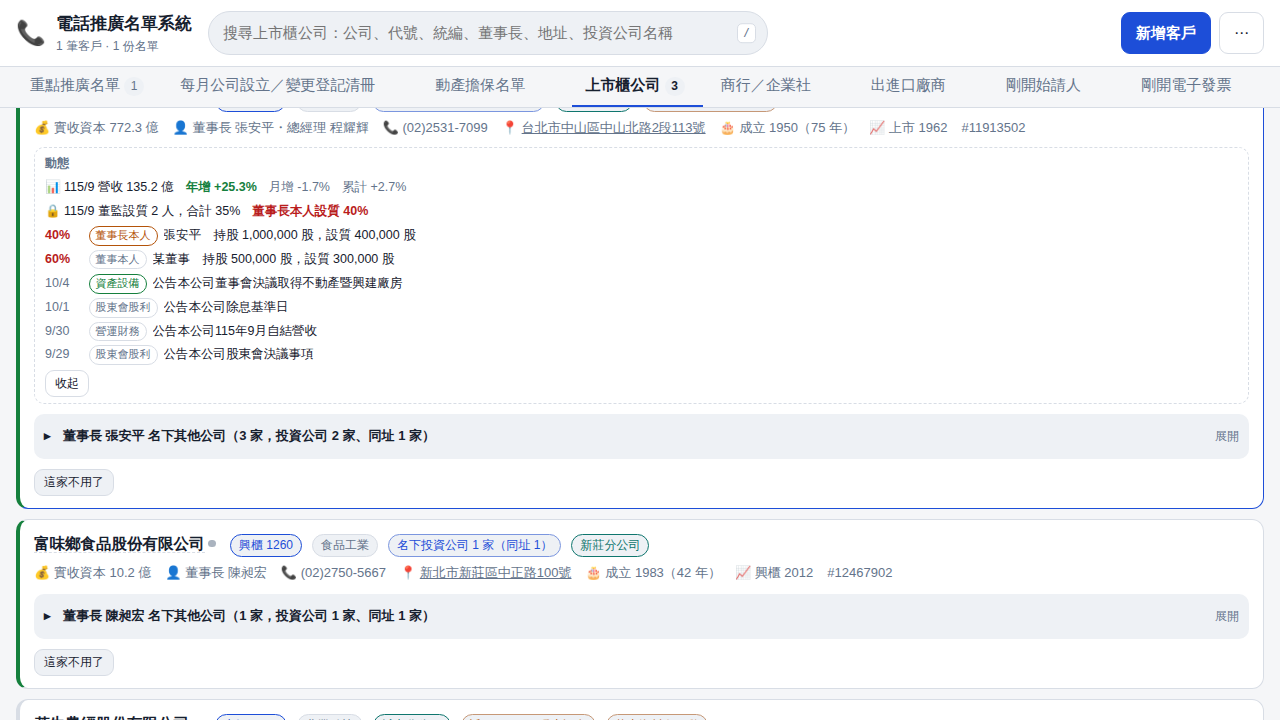
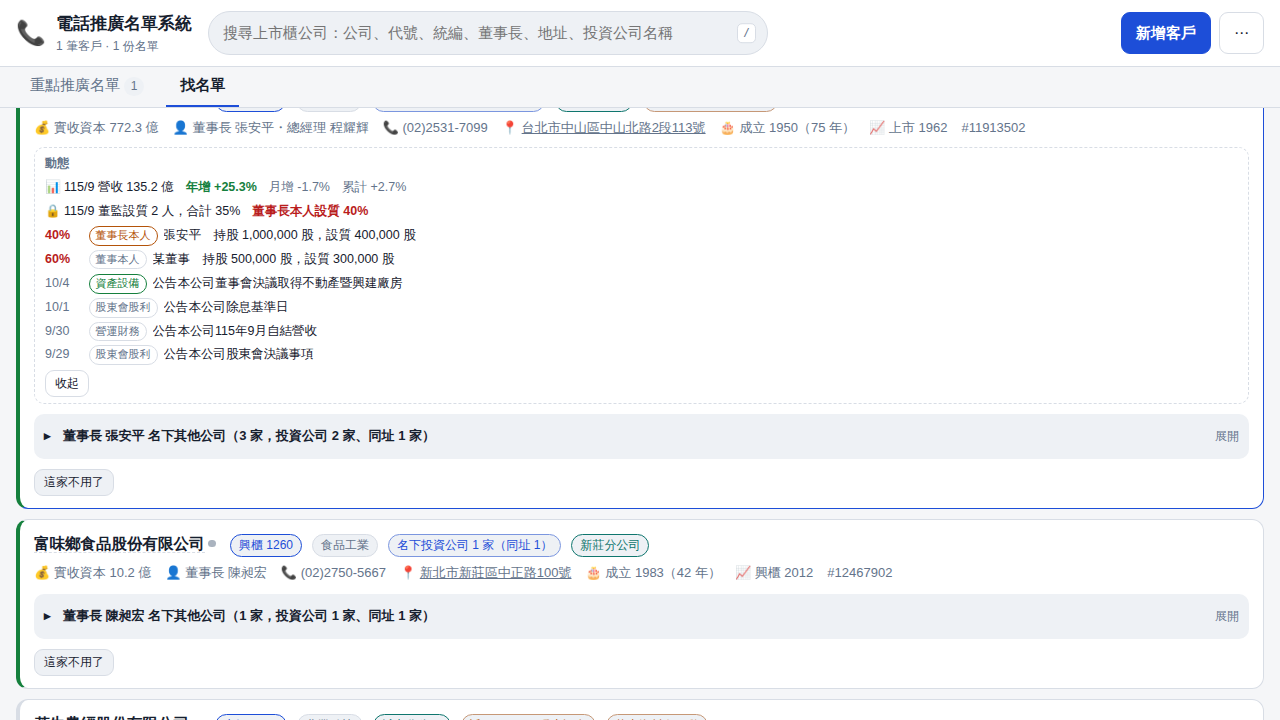
分頁列收成三個：重點推廣名單、找名單（七個來源在第二排、名字縮短）、篩選；統計規則搬進選單；版本 241
Claude-Session: https://claude.ai/code/session_01Dzy844eqapM8HioFc9w195

diff --git a/index.html b/index.html
@@ -14,10 +14,10 @@
 <meta name="mobile-web-app-capable" content="yes">
 <meta name="apple-mobile-web-app-title" content="電推名單">
 <meta name="apple-mobile-web-app-status-bar-style" content="default">
-<link rel="stylesheet" href="assets/css/app.css?v=20261003-240">
+<link rel="stylesheet" href="assets/css/app.css?v=20261003-241">
 <!-- 密碼鎖要在畫面畫出來之前就生效，不然會先閃一下內容 -->
 <style>html[data-locked] body > *:not(.lock-gate) { display: none !important; }</style>
-<script src="assets/js/lock.js?v=20261003-240"></script>
+<script src="assets/js/lock.js?v=20261003-241"></script>
 </head>
 <body data-theme="auto">
 
@@ -40,6 +40,8 @@
     <button id="btnImport" class="btn btn-primary">新增客戶</button>
     <button id="btnMenu" class="btn btn-ghost" aria-haspopup="true" title="更多">⋯</button>
     <div id="menu" class="menu" hidden>
+      <button data-act="stats">統計</button>
+      <button data-act="rules">規則</button>
       <hr>
       <button data-act="export-xlsx">匯出 Excel（含通話紀錄）</button>
       <button data-act="export-json">下載備份 JSON</button>
@@ -68,18 +70,20 @@
   </div>
 </header>
 
+<!-- 分頁列只留三個：每天待的名單、找名單（七個來源收在第二排）、篩選。統計、規則搬到右上選單（使用者：分頁在版面上有點多） -->
 <nav class="tabs" id="tabs">
   <button class="tab is-active" data-tab="all">重點推廣名單 <span class="pill" id="countAll">0</span></button>
-  <button class="tab" data-tab="leads">每月公司設立／變更登記清冊 <span class="pill" id="countLeads"></span></button>
-  <button class="tab" data-tab="chattel">動產擔保名單 <span class="pill" id="countChattel"></span></button>
-  <button class="tab" data-tab="listed">上市櫃公司 <span class="pill" id="countListed"></span></button>
-  <button class="tab" data-tab="biz">商行／企業社 <span class="pill" id="countBiz"></span></button>
-  <button class="tab" data-tab="trade">出進口廠商 <span class="pill" id="countTrade"></span></button>
-  <button class="tab" data-tab="nhi">剛開始請人 <span class="pill" id="countNhi"></span></button>
-  <button class="tab" data-tab="einv">剛開電子發票 <span class="pill" id="countEinv"></span></button>
-  <button class="tab" data-tab="stats">統計</button>
-  <button class="tab" data-tab="rules">規則</button>
+  <button class="tab" data-tab="sources">找名單</button>
   <button id="btnFilters" class="tab tab-filters" aria-expanded="false">篩選 ▾</button>
+</nav>
+<nav class="subtabs" id="subtabs" hidden>
+  <button class="subtab" data-tab="leads">登記清冊 <span class="pill" id="countLeads"></span></button>
+  <button class="subtab" data-tab="chattel">動產擔保 <span class="pill" id="countChattel"></span></button>
+  <button class="subtab" data-tab="listed">上市櫃 <span class="pill" id="countListed"></span></button>
+  <button class="subtab" data-tab="biz">商行／企業社 <span class="pill" id="countBiz"></span></button>
+  <button class="subtab" data-tab="trade">出進口廠商 <span class="pill" id="countTrade"></span></button>
+  <button class="subtab" data-tab="nhi">剛開始請人 <span class="pill" id="countNhi"></span></button>
+  <button class="subtab" data-tab="einv">剛開電子發票 <span class="pill" id="countEinv"></span></button>
 </nav>
 
 <main class="layout">
@@ -304,25 +308,25 @@
 
 <div id="toast" class="toast" hidden></div>
 
-<script src="assets/vendor/pdfjs/pdf.min.js?v=20261003-240"></script>
-<script src="assets/vendor/xlsx/xlsx.min.js?v=20261003-240"></script>
+<script src="assets/vendor/pdfjs/pdf.min.js?v=20261003-241"></script>
+<script src="assets/vendor/xlsx/xlsx.min.js?v=20261003-241"></script>
 <script src="assets/vendor/tesseract/tesseract.min.js"></script>
-<script src="assets/js/pdf-table.js?v=20261003-240"></script>
-<script src="assets/js/normalize.js?v=20261003-240"></script>
-<script src="assets/js/holidays.js?v=20261003-240"></script>
-<script src="assets/js/registry.js?v=20261003-240"></script>
-<script src="assets/js/ocr.js?v=20261003-240"></script>
-<script src="assets/js/rules.js?v=20261003-240"></script>
-<script src="assets/js/store.js?v=20261003-240"></script>
-<script src="assets/js/sync.js?v=20261003-240"></script>
-<script src="assets/js/leads.js?v=20261003-240"></script>
-<script src="assets/js/chattel.js?v=20261003-240"></script>
-<script src="assets/js/listed.js?v=20261003-240"></script>
-<script src="assets/js/biz.js?v=20261003-240"></script>
-<script src="assets/js/trade.js?v=20261003-240"></script>
-<script src="assets/js/nhi.js?v=20261003-240"></script>
-<script src="assets/js/einv.js?v=20261003-240"></script>
-<script src="assets/js/closed.js?v=20261003-240"></script>
-<script src="assets/js/app.js?v=20261003-240"></script>
+<script src="assets/js/pdf-table.js?v=20261003-241"></script>
+<script src="assets/js/normalize.js?v=20261003-241"></script>
+<script src="assets/js/holidays.js?v=20261003-241"></script>
+<script src="assets/js/registry.js?v=20261003-241"></script>
+<script src="assets/js/ocr.js?v=20261003-241"></script>
+<script src="assets/js/rules.js?v=20261003-241"></script>
+<script src="assets/js/store.js?v=20261003-241"></script>
+<script src="assets/js/sync.js?v=20261003-241"></script>
+<script src="assets/js/leads.js?v=20261003-241"></script>
+<script src="assets/js/chattel.js?v=20261003-241"></script>
+<script src="assets/js/listed.js?v=20261003-241"></script>
+<script src="assets/js/biz.js?v=20261003-241"></script>
+<script src="assets/js/trade.js?v=20261003-241"></script>
+<script src="assets/js/nhi.js?v=20261003-241"></script>
+<script src="assets/js/einv.js?v=20261003-241"></script>
+<script src="assets/js/closed.js?v=20261003-241"></script>
+<script src="assets/js/app.js?v=20261003-241"></script>
 </body>
 </html>

diff --git a/tests/e2e/test-nav.js b/tests/e2e/test-nav.js
@@ -1,0 +1,42 @@
+// 分頁列只剩「重點推廣名單｜找名單｜篩選」：七個來源在找名單底下的第二排，統計、規則從右上選單進；?tab= 網址照舊
+const { chromium } = require('playwright');
+const http=require('http'),fs=require('fs'),path=require('path');
+const ROOT=require('path').resolve(__dirname,'../..'),T={'.html':'text/html','.js':'text/javascript','.css':'text/css','.json':'application/json'};
+const srv=http.createServer((rq,rs)=>{const f=path.join(ROOT,rq.url==='/'?'index.html':decodeURIComponent(rq.url.split('?')[0]));
+ fs.readFile(f,(e,b)=>{if(e){rs.writeHead(404);return rs.end();}rs.writeHead(200,{'Content-Type':T[path.extname(f)]||'application/octet-stream'});rs.end(b);});}).listen(9511);
+(async()=>{
+ let bad=0; const chk=(ok,m)=>{ if(!ok)bad++; console.log(`${ok?'PASS':'FAIL'} ${m}`); };
+ const br=await chromium.launch({executablePath:process.env.PW_CHROMIUM||undefined});
+ const ctx=await br.newContext();
+ await ctx.route('**/leads/**',r=>r.fulfill({status:404,body:''}));   // 這支只看導覽，清冊一律沒有
+ const pg=await ctx.newPage({viewport:{width:1300,height:1100}}); const errs=[]; pg.on('pageerror',e=>errs.push(e.message)); pg.on('dialog',d=>d.accept());
+ await pg.goto('http://localhost:9511/index.html'); await pg.waitForSelector('#dropzone'); await pg.click('#importer .drawer-close');
+ await pg.evaluate(()=>{ localStorage.setItem('registry-auto','0'); localStorage.setItem('daily-feed-auto','0'); });
+ const tabs=await pg.$$eval('#tabs .tab',a=>a.map(x=>x.textContent.replace(/\s+/g,' ').trim()));
+ chk(tabs.length===3 && tabs[0].startsWith('重點推廣名單') && tabs[1]==='找名單' && /篩選/.test(tabs[2]), `分頁列三個：${tabs.join(' | ')}`);
+ chk(await pg.locator('#subtabs').isHidden(), '在重點推廣名單時第二排收著');
+ // 按找名單：第二排出現、預設登記清冊
+ await pg.click('.tab[data-tab="sources"]'); await pg.waitForTimeout(400);
+ chk(await pg.locator('#subtabs').isVisible() && (await pg.$$eval('#subtabs .subtab',a=>a.length))===7, '第二排七個來源');
+ chk(await pg.locator('.tab[data-tab="sources"]').evaluate(e=>e.classList.contains('is-active')) && await pg.locator('.subtab[data-tab="leads"]').evaluate(e=>e.classList.contains('is-active')) && await pg.locator('#paneLeads').isVisible(), '找名單亮著、預設登記清冊');
+ const subs=await pg.$$eval('#subtabs .subtab',a=>a.map(x=>x.textContent.replace(/\s+/g,' ').trim()));
+ chk(subs[0].startsWith('登記清冊') && subs[1].startsWith('動產擔保') && subs[2].startsWith('上市櫃') && subs[6].startsWith('剛開電子發票'), `名字縮短：${subs.join(' | ')}`);
+ // 切到出進口廠商：pane 換、搜尋欄提示換、記住
+ await pg.click('.subtab[data-tab="trade"]'); await pg.waitForTimeout(400);
+ chk(await pg.locator('#paneTrade').isVisible() && await pg.locator('#paneLeads').isHidden() && /出進口廠商/.test(await pg.getAttribute('#search','placeholder')), '切到出進口廠商');
+ await pg.click('.tab[data-tab="all"]'); await pg.waitForTimeout(300);
+ chk(await pg.locator('#subtabs').isHidden() && await pg.locator('#paneList').isVisible(), '回重點推廣名單：第二排收起來');
+ await pg.click('.tab[data-tab="sources"]'); await pg.waitForTimeout(300);
+ chk(await pg.locator('#paneTrade').isVisible(), '再按找名單回到上次看的出進口廠商');
+ // 統計、規則從右上選單
+ await pg.click('#btnMenu'); await pg.click('#menu [data-act="stats"]'); await pg.waitForTimeout(400);
+ chk(await pg.locator('#paneStats').isVisible() && await pg.locator('#subtabs').isHidden() && (await pg.$$eval('#tabs .tab.is-active',a=>a.length))===0, '選單進統計：分頁列不亮、第二排收起來');
+ await pg.click('#btnMenu'); await pg.click('#menu [data-act="rules"]'); await pg.waitForTimeout(400);
+ chk(await pg.locator('#paneRules').isVisible(), '選單進規則');
+ // ?tab= 網址照舊
+ await pg.goto('http://localhost:9511/index.html?tab=nhi'); await pg.waitForSelector('#btnImport'); await pg.waitForTimeout(600);
+ chk(await pg.locator('#paneNhi').isVisible() && await pg.locator('.subtab[data-tab="nhi"]').evaluate(e=>e.classList.contains('is-active')), '?tab=nhi 直接開到剛開始請人');
+ chk(errs.length===0, `沒有 JS 錯誤：${errs.join(' | ')}`);
+ console.log(bad?`\n${bad} 項失敗`:'\n全部通過');
+ await br.close(); srv.close(); process.exit(bad?1:0);
+})();

diff --git a/assets/js/app.js b/assets/js/app.js
@@ -9,7 +9,7 @@
    * 靜態主機會把 js/css 快取起來，沒有版本號的話使用者更新後還是拿到舊檔案。
    * index.html 的每個 assets 網址都帶 ?v=，改版時一起換掉這個字串即可。
    */
-  const APP_VERSION = '20261003-240';
+  const APP_VERSION = '20261003-241';
   const TAX_LABEL = { yes: '有統編', no: '無統編' };
   const PHONE_LABEL = { yes: '有電話', no: '無電話' };
   // 變更登記：商工登記查核時發現的異動。一家公司可以同時有好幾種（增資＋負責人異動）
@@ -7354,6 +7354,7 @@ export default {
       if (!btn || btn.id === 'btnFilters' || btn.classList.contains('tab-link') || btn.classList.contains('nav-link')) return;
       switchTab(btn.dataset.tab);
     };
+    $('#subtabs').onclick = (e) => { const btn = e.target.closest('.subtab'); if (btn) switchTab(btn.dataset.tab); };
 
     $('#btnImport').onclick = () => { $('#importer').hidden = false; };
     $('#btnSync').onclick = () => runSync({ interactive: true });
@@ -7463,6 +7464,7 @@ export default {
       if (act === 'backups') { await openBackups(); return; }
       if (act === 'check-names') { await reviewCompanyNames(); return; }
       if (act === 'day-load') { openDayLoad(); return; }
+      if (act === 'stats' || act === 'rules') { switchTab(act); return; }
       if (act === 'prune-unscheduled') { pruneUnscheduled(); return; }
       if (act === 'feed-more') { await dailyFeed({ more: true }); render(); return; }
       if (act === 'spread-undo') { await undoSpread(); return; }
@@ -7579,16 +7581,27 @@ export default {
     });
   }
 
-  /** 切分頁：分頁列、選單、網址（?tab=leads）都從這裡走，狀態才會一致。 */
+  /*
+   * 切分頁：分頁列、選單、網址（?tab=leads）都從這裡走，狀態才會一致。
+   * 分頁列只有「重點推廣名單」「找名單」（使用者：分頁在版面上有點多）：七個名單來源是「找名單」底下的第二排（#subtabs），
+   * state.tab 還是那七個 key，各分頁、搜尋欄、?tab= 都不用改；按「找名單」就回到上次看的那個來源。統計、規則從右上選單進，分頁列不亮。
+   */
+  const SOURCE_TABS = ['leads', 'chattel', 'listed', 'biz', 'trade', 'nhi', 'einv'];
   function switchTab(tab) {
-    const btn = $(`#tabs .tab[data-tab="${tab}"]`);
-    if (!btn) return;
+    if (tab === 'sources') { let last = ''; try { last = localStorage.getItem('sources-last') || ''; } catch (e) { last = ''; } tab = SOURCE_TABS.includes(last) ? last : 'leads'; }
+    if (!(tab === 'all' || tab === 'stats' || tab === 'rules' || SOURCE_TABS.includes(tab))) return;
     state.tab = tab;
     state.limit = PAGE_SIZE;
-    [...$('#tabs').children].forEach((b) => b.classList.toggle('is-active', b === btn));
+    const isSource = SOURCE_TABS.includes(tab);
+    const top = tab === 'all' ? 'all' : isSource ? 'sources' : '';
+    [...$('#tabs').children].forEach((b) => b.classList.toggle('is-active', !!top && b.dataset.tab === top));
+    $('#subtabs').hidden = !isSource;
+    [...$('#subtabs').children].forEach((b) => b.classList.toggle('is-active', b.dataset.tab === tab));
+    if (isSource) { try { localStorage.setItem('sources-last', tab); } catch (e) { /* 無痕 */ } }
     render();
     syncSearchBox();
   }
+  window.switchTab = switchTab;   // 測試用：直接切到某個來源
 
   async function init() {
     // 深淺色切換拿掉了（使用者說用不到），一律跟著系統；以前手動選過的清掉，不然會永遠卡在那一色

diff --git a/tests/e2e/test-deleted-hide.js b/tests/e2e/test-deleted-hide.js
@@ -39,7 +39,7 @@ const mk=(id,company,taxId)=>({id,source:'A.csv',company,aliases:[],taxId,grade:
  chk((await pg.evaluate(async()=>(await window.Store.allRecords()).length))===0, '名單上刪掉了');
  chk(await pg.evaluate(()=>window.deletedCompany('晨光貿易有限公司','70000001')) && !(await pg.evaluate(()=>window.deletedCompany('遠帆國際開發有限公司','70000002'))), '刪掉的公司有記到（統編／名稱）');
  // 出進口分頁：晨光藏起來，遠帆照列
- await pg.click('.tab[data-tab="trade"]'); await pg.waitForSelector('#trade-cards .card'); await pg.waitForTimeout(300);
+ await pg.evaluate(()=>window.switchTab('trade')); await pg.waitForSelector('#trade-cards .card'); await pg.waitForTimeout(300);
  await pg.click('#trade-reset'); await pg.fill('#trade-capMin',''); await pg.fill('#trade-capMax',''); await pg.locator('#trade-fPhone .chip:has-text("有電話")').click(); await pg.locator('#trade-fBranch .chip:has-text("新莊分公司")').click(); await pg.waitForTimeout(300);
  let names=await pg.$$eval('#trade-cards .card .card-name',a=>a.map(x=>x.textContent.replace(/\s+/g,' ').trim()));
  chk(names.length===1 && /遠帆/.test(names[0]), `出進口分頁只剩遠帆：${names.join('|')}`);
@@ -47,7 +47,7 @@ const mk=(id,company,taxId)=>({id,source:'A.csv',company,aliases:[],taxId,grade:
  chk(/顯示藏起來的 1 家（含名單刪過的 1 家）/.test(hb), `藏起來的按鈕：${hb}`);
  chk(!(await pg.evaluate(async()=>(await window.Trade.dailyCandidates()).some(r=>r.name==='晨光貿易有限公司'))), '每日挑選也不挑刪過的');
  // 剛開始請人分頁一樣
- await pg.click('.tab[data-tab="nhi"]'); await pg.waitForSelector('#nhi-cards .card'); await pg.waitForTimeout(300);
+ await pg.evaluate(()=>window.switchTab('nhi')); await pg.waitForSelector('#nhi-cards .card'); await pg.waitForTimeout(300);
  await pg.click('#nhi-reset'); await pg.fill('#nhi-capMin',''); await pg.fill('#nhi-capMax',''); await pg.locator('#nhi-fOrg .chip:has-text("公司")').click(); await pg.locator('#nhi-fBranch .chip:has-text("新莊分公司")').click(); await pg.waitForTimeout(300);
  names=await pg.$$eval('#nhi-cards .card .card-name',a=>a.map(x=>x.textContent.replace(/\s+/g,' ').trim()));
  chk(names.length===1 && /宇駿/.test(names[0]), `剛開始請人只剩宇駿：${names.join('|')}`);
@@ -60,7 +60,7 @@ const mk=(id,company,taxId)=>({id,source:'A.csv',company,aliases:[],taxId,grade:
  await pg.click('#nhi-hidden').catch(()=>{}); await pg.waitForTimeout(300);
  names=await pg.$$eval('#nhi-cards .card .card-name',a=>a.map(x=>x.textContent.replace(/\s+/g,' ').trim()));
  chk(names.length===2 && (await pg.locator('#nhi-cards .card:has-text("晨光") .nhi-add-one').count())===1, `放回來後正常列出、可以再加入：${names.join('|')}`);
- await pg.click('.tab[data-tab="trade"]'); await pg.waitForTimeout(300);
+ await pg.evaluate(()=>window.switchTab('trade')); await pg.waitForTimeout(300);
  names=await pg.$$eval('#trade-cards .card .card-name',a=>a.map(x=>x.textContent.replace(/\s+/g,' ').trim()));
  chk(names.length===2, `出進口分頁也回來了：${names.join('|')}`);
  chk(errs.length===0, `沒有 JS 錯誤：${errs.join(' | ')}`);

diff --git a/tests/e2e/test-chattel.js b/tests/e2e/test-chattel.js
@@ -44,8 +44,8 @@ const SEED=[mk('1','昱昌汽車貨運股份有限公司','53217846',{outcome:'n
  await pg.reload(); await pg.waitForSelector('#btnImport'); await pg.waitForTimeout(600);
 
  // 分頁在，切過去會抓清冊
- chk(await pg.locator('.tab[data-tab="chattel"]').count()===1, '分頁列上有「動產擔保名單」');
- await pg.click('.tab[data-tab="chattel"]'); await pg.waitForSelector('#chattel-cards .card'); await pg.waitForTimeout(400);
+ chk(await pg.locator('.subtab[data-tab=\"chattel\"]').count()===1, '找名單底下有「動產擔保名單」');
+ await pg.evaluate(()=>window.switchTab('chattel')); await pg.waitForSelector('#chattel-cards .card'); await pg.waitForTimeout(400);
  const sub=await pg.textContent('#chattel-sub');
  chk(/資料截到 2026\/07/.test(sub) && /2026\/09\/26/.test(sub), `副標寫資料截到哪、何時抓的：${sub}`);
  chk(await pg.locator('#filters').isHidden(), '左側客戶篩選收起來，整個寬度給清冊');
@@ -112,7 +112,7 @@ const SEED=[mk('1','昱昌汽車貨運股份有限公司','53217846',{outcome:'n
  await pg.locator('#chattel-cards .card:has-text("泓宇")').locator('button.chattel-hide').click(); await pg.waitForTimeout(250);
  n=await names(); chk(!n.includes('泓宇塑膠射出有限公司'), `藏起來了：${n.join('|')}`);
  chk((await pg.textContent('#chattel-hidden')).includes('顯示藏起來的 1 家'), `有「顯示藏起來的」按鈕：${await pg.textContent('#chattel-hidden')}`);
- await pg.reload(); await pg.waitForSelector('#btnImport'); await pg.click('.tab[data-tab="chattel"]'); await pg.waitForSelector('#chattel-cards .card'); await pg.waitForTimeout(300);
+ await pg.reload(); await pg.waitForSelector('#btnImport'); await pg.evaluate(()=>window.switchTab('chattel')); await pg.waitForSelector('#chattel-cards .card'); await pg.waitForTimeout(300);
  n=await names(); chk(!n.includes('泓宇塑膠射出有限公司'), `重新整理之後還是藏著：${n.join('|')}`);
  await pg.click('#chattel-hidden'); await pg.waitForTimeout(250); n=await names();
  chk(n.includes('泓宇塑膠射出有限公司'), `按一下就看得到藏起來的：${n.join('|')}`);
@@ -132,7 +132,7 @@ const SEED=[mk('1','昱昌汽車貨運股份有限公司','53217846',{outcome:'n
  chk(ht && /新莊區/.test(ht.address), `標的物所在地當地址：${ht&&ht.address}`);
  chk(ht && ht.founded==='2012', `成立年一起匯進去：${ht&&ht.founded}`);
  await pg.click('#importer .drawer-close').catch(()=>{}); await pg.waitForTimeout(300);
- await pg.click('.tab[data-tab="chattel"]'); await pg.waitForTimeout(400);
+ await pg.evaluate(()=>window.switchTab('chattel')); await pg.waitForTimeout(400);
  const mineNow=await pg.locator('#chattel-cards .card.is-mine').count();
  chk(mineNow===4, `匯進去之後卡片變成已在名單：${mineNow}`);
  chk(/（/.test(await pg.textContent('#chattel-add'))===false, `全部都在名單了，按鈕不再寫家數：${await pg.textContent('#chattel-add')}`);

diff --git a/tests/e2e/test-biz.js b/tests/e2e/test-biz.js
@@ -31,8 +31,8 @@ const mk=(id,company,taxId)=>({id,source:'A.csv',company,aliases:[],taxId,grade:
  await pg.goto('http://localhost:9488/index.html'); await pg.waitForSelector('#dropzone'); await pg.click('#importer .drawer-close');
  await pg.evaluate(async(r)=>{ await window.Store.saveRecords(r); localStorage.setItem('registry-auto','0'); localStorage.setItem('daily-feed-auto','0'); },[mk('1','樹德醫療器材行','91214059')]);
  await pg.reload(); await pg.waitForSelector('#btnImport'); await pg.waitForTimeout(500);
- chk(await pg.locator('.tab[data-tab="biz"]').count()===1, '分頁列上有「商行／企業社」');
- await pg.click('.tab[data-tab="biz"]'); await pg.waitForSelector('#biz-cards .card'); await pg.waitForTimeout(400);
+ chk(await pg.locator('.subtab[data-tab=\"biz\"]').count()===1, '找名單底下有「商行／企業社」');
+ await pg.evaluate(()=>window.switchTab('biz')); await pg.waitForSelector('#biz-cards .card'); await pg.waitForTimeout(400);
  const sub=await pg.textContent('#biz-sub');
  chk(/新北市的商行、企業社 3 家（獨資 2、合夥 1）/.test(sub) && /50 萬 以上/.test(sub) && /查到負責人的 2 家/.test(sub), `副標：${sub}`);
  const names=async()=>pg.$$eval('#biz-cards .card .card-name',a=>a.map(x=>x.textContent.trim()));
@@ -72,7 +72,7 @@ const mk=(id,company,taxId)=>({id,source:'A.csv',company,aliases:[],taxId,grade:
  chk(recs.length===1 && recs[0].company==='協玖裝潢企業社' && recs[0].taxId==='91712817' && recs[0].capital==='1,000' && recs[0].founded==='2022' && recs[0].industry==='室內裝潢工程', `加進去的資料：${JSON.stringify(recs[0])}`);
  chk(recs[0] && /商行／企業社（稅籍登記）：獨資/.test(recs[0].notes) && /只有稅籍登記/.test(recs[0].notes) && recs[0].nextDate==='2026-10-06' && recs[0].addedDate===TODAY, `備註、排明天、名單新增日期：${recs[0]&&recs[0].notes} ${recs[0]&&recs[0].nextDate}`);
  await pg.click('#importer .drawer-close').catch(()=>{}); await pg.waitForTimeout(300);
- await pg.click('.tab[data-tab="all"]'); await pg.waitForTimeout(200); await pg.click('.tab[data-tab="biz"]'); await pg.waitForTimeout(400);
+ await pg.click('.tab[data-tab="all"]'); await pg.waitForTimeout(200); await pg.evaluate(()=>window.switchTab('biz')); await pg.waitForTimeout(400);
  chk(/已在名單/.test(await pg.locator('#biz-cards .card:has-text("協玖")').locator('.card-top').textContent()), '切回來變成已在名單');
  chk(/把篩出來的加入客戶名單（1 家）/.test(await pg.textContent('#biz-add')), `整批按鈕算還不在名單的：${await pg.textContent('#biz-add')}`);
  chk(errs.length===0, `沒有 JS 錯誤：${errs.join(' | ')}`);

diff --git a/tests/e2e/test-listed.js b/tests/e2e/test-listed.js
@@ -51,8 +51,8 @@ const SEED=[mk('1','安達投資有限公司','12345679')];
  await pg.goto('http://localhost:9486/index.html'); await pg.waitForSelector('#dropzone'); await pg.click('#importer .drawer-close');
  await pg.evaluate(async(r)=>{ await window.Store.saveRecords(r); localStorage.setItem('registry-auto','0'); localStorage.setItem('daily-feed-auto','0'); },SEED);
  await pg.reload(); await pg.waitForSelector('#btnImport'); await pg.waitForTimeout(500);
- chk(await pg.locator('.tab[data-tab="listed"]').count()===1, '分頁列上有「上市櫃公司」');
- await pg.click('.tab[data-tab="listed"]'); await pg.waitForSelector('#listed-cards .card'); await pg.waitForTimeout(400);
+ chk(await pg.locator('.subtab[data-tab=\"listed\"]').count()===1, '找名單底下有「上市櫃公司」');
+ await pg.evaluate(()=>window.switchTab('listed')); await pg.waitForSelector('#listed-cards .card'); await pg.waitForTimeout(400);
  chk((await pg.$$eval('#listed-cards .card .card-name',a=>a.map(x=>x.textContent.trim()))).join('|')==='富味鄉食品股份有限公司|茂生農經股份有限公司' && /符合 2 家/.test(await pg.textContent('#listed-count')), '預設剔除實收資本額 50 億以上（台泥 772 億藏起來）');
  await pg.uncheck('#listed-hideBig'); await pg.waitForTimeout(300);
  const sub=await pg.textContent('#listed-sub');
@@ -111,7 +111,7 @@ const SEED=[mk('1','安達投資有限公司','12345679')];
  chk(recs[0] && /張安平 是上市 臺灣水泥股份有限公司（1101）董事長/.test(recs[0].notes) && /與上市公司同址/.test(recs[0].notes), `備註寫清楚：${recs[0]&&recs[0].notes}`);
  chk(recs[0] && recs[0].nextDate==='2026-10-06', `排在明天：${recs[0]&&recs[0].nextDate}`);
  await pg.click('#importer .drawer-close').catch(()=>{}); await pg.waitForTimeout(300);
- await pg.click('.tab[data-tab="all"]'); await pg.waitForTimeout(200); await pg.click('.tab[data-tab="listed"]'); await pg.waitForTimeout(400);
+ await pg.click('.tab[data-tab="all"]'); await pg.waitForTimeout(200); await pg.evaluate(()=>window.switchTab('listed')); await pg.waitForTimeout(400);
  chk((await pg.locator('#listed-cards .card').first().locator('.owner-row').count())===2, '切回來仍是展開的');
  const rows2=await pg.locator('#listed-cards .card').first().locator('.owner-row').allTextContents();
  chk(/已在名單/.test(rows2[0]) && /打開/.test(rows2[0]), `切回來變成已在名單：${rows2[0].replace(/\s+/g,' ')}`);

diff --git a/tests/e2e/test-closed.js b/tests/e2e/test-closed.js
@@ -43,7 +43,7 @@ const mk=(id,company,taxId)=>({id,source:'A.csv',company,aliases:[],taxId,grade:
  chk(/已停業・稅籍停業 2026\/05\/23/.test(top), `名單卡片標已停業：${top}`);
  chk(!/已停業/.test(await pg.locator('#cards .card:has-text("還在營業")').textContent()), '沒停業的不標');
  // 出進口分頁：遠帆藏起來，晨光照列；藏起來的按鈕寫「已停業 1 家」；打開看得到原因、沒有放回來
- await pg.click('.tab[data-tab="trade"]'); await pg.waitForSelector('#trade-cards .card'); await pg.waitForTimeout(300);
+ await pg.evaluate(()=>window.switchTab('trade')); await pg.waitForSelector('#trade-cards .card'); await pg.waitForTimeout(300);
  await pg.click('#trade-reset'); await pg.fill('#trade-capMin',''); await pg.fill('#trade-capMax',''); await pg.locator('#trade-fPhone .chip:has-text("有電話")').click(); await pg.locator('#trade-fBranch .chip:has-text("新莊分公司")').click(); await pg.waitForTimeout(300);
  let names=await pg.$$eval('#trade-cards .card .card-name',a=>a.map(x=>x.textContent.replace(/\s+/g,' ').trim()));
  chk(names.length===1 && /晨光/.test(names[0]), `出進口分頁只剩晨光：${names.join('|')}`);
@@ -55,7 +55,7 @@ const mk=(id,company,taxId)=>({id,source:'A.csv',company,aliases:[],taxId,grade:
  chk((await card.count())===1 && /已停業（稅籍停業 2026\/05\/23），自動藏起來/.test(await card.textContent()) && (await card.locator('button:has-text("放回來")').count())===0, `打開藏起來的：寫原因、沒有放回來：${(await card.textContent()).replace(/\s+/g,' ').slice(0,160)}`);
  await pg.click('#trade-hidden'); await pg.waitForTimeout(300);
  // 剛開始請人分頁：健保註銷的宇駿也藏
- await pg.click('.tab[data-tab="nhi"]'); await pg.waitForSelector('#nhi-cards .card'); await pg.waitForTimeout(300);
+ await pg.evaluate(()=>window.switchTab('nhi')); await pg.waitForSelector('#nhi-cards .card'); await pg.waitForTimeout(300);
  await pg.click('#nhi-reset'); await pg.fill('#nhi-capMin',''); await pg.fill('#nhi-capMax',''); await pg.locator('#nhi-fOrg .chip:has-text("公司")').click(); await pg.locator('#nhi-fBranch .chip:has-text("新莊分公司")').click(); await pg.waitForTimeout(300);
  names=await pg.$$eval('#nhi-cards .card .card-name',a=>a.map(x=>x.textContent.replace(/\s+/g,' ').trim()));
  chk(names.length===1 && /晨光/.test(names[0]), `剛開始請人只剩晨光：${names.join('|')}`);

diff --git a/tests/e2e/test-einv.js b/tests/e2e/test-einv.js
@@ -30,8 +30,8 @@ const mk=(id,company,taxId)=>({id,source:'A.csv',company,aliases:[],taxId,grade:
  await pg.goto('http://localhost:9509/index.html'); await pg.waitForSelector('#dropzone'); await pg.click('#importer .drawer-close');
  await pg.evaluate(async(r)=>{ await window.Store.saveRecords(r); localStorage.setItem('registry-auto','0'); localStorage.setItem('daily-feed-auto','0'); localStorage.setItem('leads-hunt','0'); },[mk('1','老客戶股份有限公司','11111111')]);
  await pg.reload(); await pg.waitForSelector('#btnImport'); await pg.waitForTimeout(500);
- chk((await pg.$$eval('#tabs .tab',a=>a.map(x=>x.textContent.replace(/\s+/g,' ').trim()))).some(t=>t.startsWith('剛開電子發票')), '有「剛開電子發票」分頁');
- await pg.click('.tab[data-tab="einv"]'); await pg.waitForSelector('#einv-cards .card'); await pg.waitForTimeout(300);
+ chk((await pg.$$eval('#subtabs .subtab',a=>a.map(x=>x.textContent.replace(/\s+/g,' ').trim()))).some(t=>t.startsWith('剛開電子發票')), '找名單底下有「剛開電子發票」');
+ await pg.evaluate(()=>window.switchTab('einv')); await pg.waitForSelector('#einv-cards .card'); await pg.waitForTimeout(300);
  const sub=(await pg.textContent('#einv-sub')).replace(/\s+/g,' ');
  chk(/新北市剛導入電子發票 1 家（這個月新出現 1）、成立 3 年內已導入的 3 家（對到電話 2）/.test(sub) && /清單 2026\/11，起算 2026\/10/.test(sub), `標題：${sub}`);
  // 預設篩選：資本額 500～6,000 萬、公司、我的分公司 → 名祿（新莊、1,200 萬）；老客戶 5,000 萬也在新莊但已在名單（還是列，標已在名單）
@@ -69,7 +69,7 @@ const mk=(id,company,taxId)=>({id,source:'A.csv',company,aliases:[],taxId,grade:
  await pg.evaluate(()=>document.querySelector('#drawer .drawer-close').click()); await pg.waitForTimeout(300);
  chk((await pg.locator('#einv-cards .card:has-text("名祿") .badge-mine').count())===1, '加完卡片標已在名單');
  // 統計的來源漏斗認得這個來源
- await pg.click('.tab[data-tab="stats"]'); await pg.waitForTimeout(400);
+ await pg.evaluate(()=>window.switchTab('stats')); await pg.waitForTimeout(400);
  chk(/剛開電子發票/.test(await pg.textContent('#paneStats .funnel')), '來源漏斗列「剛開電子發票」');
  chk(errs.length===0, `沒有 JS 錯誤：${errs.join(' | ')}`);
  console.log(bad?`\n${bad} 項失敗`:'\n全部通過');

diff --git a/tests/e2e/test-search-tabs.js b/tests/e2e/test-search-tabs.js
@@ -55,7 +55,7 @@ const SEED=[mk('1','安達投資有限公司','12345679')];
  chk(/搜尋公司、統編、負責人/.test(await box.getAttribute('placeholder')), '重點推廣名單：原本的提示');
  await pg.fill('#search','安達'); await pg.waitForTimeout(400);
  chk(await pg.evaluate(()=>document.querySelectorAll('#list .card, #cards .card').length)>=0, '主名單搜尋照舊');
- await pg.click('.tab[data-tab="listed"]'); await pg.waitForSelector('#listed-cards .card'); await pg.waitForTimeout(400);
+ await pg.evaluate(()=>window.switchTab('listed')); await pg.waitForSelector('#listed-cards .card'); await pg.waitForTimeout(400);
  await pg.uncheck('#listed-hideBig'); await pg.waitForTimeout(300);
  chk(/搜尋上市櫃公司/.test(await box.getAttribute('placeholder')), `切到上市櫃：提示換了 ${await box.getAttribute('placeholder')}`);
  chk((await box.inputValue())==='', '切到上市櫃：搜尋欄清空（那一頁還沒搜）');
@@ -67,11 +67,11 @@ const SEED=[mk('1','安達投資有限公司','12345679')];
  chk((await box.inputValue())==='台泥', '在那一頁的關鍵字欄打字，頂端跟著');
  await pg.click('#listed-reset'); await pg.waitForTimeout(300);
  chk((await box.inputValue())==='' && (await names()).length===2, '按清除篩選，頂端也清了、全部回來（50 億以上又藏起來，剩 2 家）');
- await pg.click('.tab[data-tab="stats"]'); await pg.waitForTimeout(300);
+ await pg.evaluate(()=>window.switchTab('stats')); await pg.waitForTimeout(300);
  chk(await box.isDisabled() && /沒有搜尋/.test(await box.getAttribute('placeholder')), '統計分頁：搜尋欄停用');
  await pg.click('.tab[data-tab="all"]'); await pg.waitForTimeout(300);
  chk(!(await box.isDisabled()) && (await box.inputValue())==='安達' && /搜尋公司、統編、負責人/.test(await box.getAttribute('placeholder')), `切回重點推廣名單：原本的字還在 ${await box.inputValue()}`);
- await pg.click('.tab[data-tab="listed"]'); await pg.waitForTimeout(300);
+ await pg.evaluate(()=>window.switchTab('listed')); await pg.waitForTimeout(300);
  chk((await box.inputValue())==='', '再切到上市櫃：那一頁清過了，是空的');
  chk(errs.length===0, `沒有 JS 錯誤：${errs.join(' | ')}`);
  console.log(bad?`${bad} 個失敗`:'\n全部通過'); await br.close(); srv.close(); process.exit(bad?1:0);

diff --git a/tests/e2e/test-nhi.js b/tests/e2e/test-nhi.js
@@ -30,8 +30,8 @@ const mk=(id,company,taxId)=>({id,source:'A.csv',company,aliases:[],taxId,grade:
  await pg.goto('http://localhost:9503/index.html'); await pg.waitForSelector('#dropzone'); await pg.click('#importer .drawer-close');
  await pg.evaluate(async(r)=>{ await window.Store.saveRecords(r); localStorage.setItem('registry-auto','0'); localStorage.setItem('daily-feed-auto','0'); localStorage.setItem('leads-hunt','0'); },[mk('1','老客戶股份有限公司','11111111')]);
  await pg.reload(); await pg.waitForSelector('#btnImport'); await pg.waitForTimeout(500);
- chk((await pg.$$eval('#tabs .tab',a=>a.map(x=>x.textContent.replace(/\s+/g,' ').trim()))).some(t=>t.startsWith('剛開始請人')), '有「剛開始請人」分頁');
- await pg.click('.tab[data-tab="nhi"]'); await pg.waitForSelector('#nhi-cards .card'); await pg.waitForTimeout(300);
+ chk((await pg.$$eval('#subtabs .subtab',a=>a.map(x=>x.textContent.replace(/\s+/g,' ').trim()))).some(t=>t.startsWith('剛開始請人')), '找名單底下有「剛開始請人」');
+ await pg.evaluate(()=>window.switchTab('nhi')); await pg.waitForSelector('#nhi-cards .card'); await pg.waitForTimeout(300);
  const sub=(await pg.textContent('#nhi-sub')).replace(/\s+/g,' ');
  chk(/新北市最近 6 個月新成立的投保單位 4 家（對到電話 2）/.test(sub) && /資料到 2026\/09/.test(sub), `標題：${sub}`);
  // 預設篩選：資本額 500～6,000 萬、公司、我的分公司 → 名祿（新莊、1,200 萬）；老客戶 5,000 萬也在新莊但已在名單（還是列，標已在名單）
@@ -61,7 +61,7 @@ const mk=(id,company,taxId)=>({id,source:'A.csv',company,aliases:[],taxId,grade:
  await pg.evaluate(()=>document.querySelector('#drawer .drawer-close').click()); await pg.waitForTimeout(300);
  chk((await pg.locator('#nhi-cards .card:has-text("名祿") .badge-mine').count())===1, '加完卡片標已在名單');
  // 統計的來源漏斗認得這個來源
- await pg.click('.tab[data-tab="stats"]'); await pg.waitForTimeout(400);
+ await pg.evaluate(()=>window.switchTab('stats')); await pg.waitForTimeout(400);
  chk(/剛開始請人/.test(await pg.textContent('#paneStats .funnel')), '來源漏斗列「剛開始請人」');
  chk(errs.length===0, `沒有 JS 錯誤：${errs.join(' | ')}`);
  console.log(bad?`\n${bad} 項失敗`:'\n全部通過');
